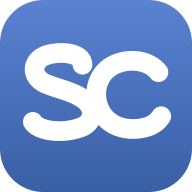
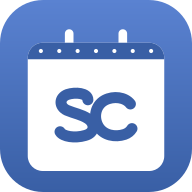
앱 아이콘 변경

diff --git a/src/components/CalendarView.js b/src/components/CalendarView.js
@@ -21,7 +21,7 @@ import {
   Animated,
   PanResponder,
   Platform,
-  Modal,
+  BackHandler,
   Pressable,
 } from "react-native";
 import Reanimated, {
@@ -43,6 +43,7 @@ import EventModal from "./EventModal";
 import Button from "./Button";
 import { SearchIcon, ReturnIcon } from "./icons";
 import { useTheme } from "../context/ThemeContext";
+import { Portal } from "../context/OverlayContext";
 import { Typography, Spacing, Radius, Shadow } from "../../constants/theme";
 
 // MainTabNavigator의 tabBarStyle: bottom 12 + height 72
@@ -264,9 +265,9 @@ export default function CalendarView({
   const [editingEvent, setEditingEvent] = useState(null);
   const [searchVisible, setSearchVisible] = useState(false);
   const [searchQuery, setSearchQuery] = useState("");
-  // 검색 dim/시트 페이드·슬라이드 아웃이 끝날 때까지 Modal을 유지하기 위한 마운트 상태.
-  // searchVisible=true → Modal mount → dim FadeIn + 시트 SlideInDown 동시에
-  // searchVisible=false → dim/시트 unmount(페이드/슬라이드 아웃) → 220ms 뒤 Modal도 unmount
+  // 검색 dim/시트 페이드·슬라이드 아웃이 끝날 때까지 오버레이 Portal을 유지하기 위한 마운트 상태.
+  // searchVisible=true → searchMounted=true → Portal 마운트 → dim FadeIn + 시트 SlideInDown 동시에
+  // searchVisible=false → dim/시트 unmount(페이드/슬라이드 아웃) → 220ms 뒤 Portal도 unmount
   const [searchMounted, setSearchMounted] = useState(false);
   useEffect(() => {
     if (searchVisible) {
@@ -487,10 +488,20 @@ export default function CalendarView({
       .sort((a, b) => a.date.localeCompare(b.date));
   }, [events, searchQuery]);
 
-  const closeSearch = () => {
+  const closeSearch = useCallback(() => {
     setSearchVisible(false);
     setSearchQuery("");
-  };
+  }, []);
+
+  // 안드로이드 하드웨어 백 버튼 → 검색 닫기. (Modal의 onRequestClose 대체)
+  useEffect(() => {
+    if (!searchVisible || Platform.OS !== "android") return undefined;
+    const sub = BackHandler.addEventListener("hardwareBackPress", () => {
+      closeSearch();
+      return true;
+    });
+    return () => sub.remove();
+  }, [searchVisible, closeSearch]);
 
   // 검색 결과 선택 → 해당 날짜 선택 + 그 달로 캘린더 이동
   const jumpToEvent = (ev) => {
@@ -803,16 +814,14 @@ export default function CalendarView({
         }
       />
 
-      <Modal
-        visible={searchMounted}
-        animationType="none"
-        transparent
-        presentationStyle="overFullScreen"
-        statusBarTranslucent
-        hardwareAccelerated
-        onRequestClose={closeSearch}
-      >
-        <View style={styles.searchOverlay}>
+      {searchMounted && (
+      // App.js OverlayHost 최상단 레이어로 텔레포트. native Modal을 쓰지 않으므로 iOS에서
+      // 슬라이드 중에도 dim이 상태바·탭바를 포함한 전 화면을 처음부터 덮는다.
+      <Portal>
+        <View
+          style={styles.searchOverlay}
+          pointerEvents={searchVisible ? "auto" : "none"}
+        >
           {/* dim은 시트와 동시에 페이드 인/아웃 → 시트가 올라오면서 점점 어두워지고, 내려가면서 점점 밝아짐 */}
           {searchVisible && (
             <Reanimated.View
@@ -990,7 +999,8 @@ export default function CalendarView({
           </Reanimated.View>
           )}
         </View>
-      </Modal>
+      </Portal>
+      )}
     </SafeAreaView>
   );
 }
@@ -1155,7 +1165,11 @@ const styles = StyleSheet.create({
     justifyContent: "center",
   },
   searchOverlay: {
-    flex: 1,
+    position: "absolute",
+    top: 0,
+    left: 0,
+    right: 0,
+    bottom: 0,
     justifyContent: "flex-end",
   },
   searchDim: {

diff --git a/src/components/EventModal.js b/src/components/EventModal.js
@@ -6,7 +6,7 @@ import React, {
   useState,
 } from "react";
 import {
-  Modal,
+  BackHandler,
   View,
   Text,
   TextInput,
@@ -33,6 +33,7 @@ import DateTimePicker from "@react-native-community/datetimepicker";
 import { MaterialIcons } from "@expo/vector-icons";
 import { GroupCalendarService } from "../services/GroupCalendarService";
 import { useTheme } from "../context/ThemeContext";
+import { Portal } from "../context/OverlayContext";
 import WheelPicker, {
   WHEEL_ITEM_HEIGHT,
   WHEEL_VISIBLE_COUNT,
@@ -178,9 +179,9 @@ const EventModal = ({
     pillBorderOff: isDark ? "#5a5e68" : "#aab0bb",
   };
 
-  // 시트와 dim의 페이드/슬라이드 아웃이 끝날 때까지 Modal을 유지하기 위한 마운트 상태.
-  // visible=true → isMounted=true → Modal mount → dim FadeIn + 시트 SlideInDown 동시에
-  // visible=false → dim/시트 unmount(페이드/슬라이드 아웃) → 220ms 뒤 Modal도 unmount
+  // 시트와 dim의 페이드/슬라이드 아웃이 끝날 때까지 오버레이를 유지하기 위한 마운트 상태.
+  // visible=true → isMounted=true → 오버레이 마운트 → dim FadeIn + 시트 SlideInDown 동시에
+  // visible=false → dim/시트 unmount(페이드/슬라이드 아웃) → 220ms 뒤 오버레이도 unmount
   const [isMounted, setIsMounted] = useState(visible);
   useEffect(() => {
     if (visible) {
@@ -190,6 +191,16 @@ const EventModal = ({
       return () => clearTimeout(t);
     }
   }, [visible, isMounted]);
+
+  // 안드로이드 하드웨어 백 버튼 → 닫기. (Modal의 onRequestClose 대체)
+  useEffect(() => {
+    if (!visible || Platform.OS !== "android") return undefined;
+    const sub = BackHandler.addEventListener("hardwareBackPress", () => {
+      onClose();
+      return true;
+    });
+    return () => sub.remove();
+  }, [visible, onClose]);
 
   // 핸들 드래그로 시트 내려서 닫기.
   // dragY: 사용자가 핸들을 아래로 끌어내린 거리(px). transform.translateY로 시트에 적용.
@@ -701,22 +712,23 @@ const EventModal = ({
     );
   };
 
+  if (!isMounted) return null;
+
   return (
-    <Modal
-      visible={isMounted}
-      animationType="none"
-      transparent={true}
-      // iOS: 모달 뷰가 처음부터 상태바 아래까지 덮도록 명시 (transparent=true의 기본값이지만
-      // 명시해두면 RN 버전·플랫폼별 기본 동작 차이를 방지)
-      presentationStyle="overFullScreen"
-      // Android: 상태바 영역까지 덮어 dim이 위까지 적용되도록
-      statusBarTranslucent
-      hardwareAccelerated
-      onRequestClose={onClose}
-    >
+    // Portal로 App.js의 OverlayHost 최상단 레이어에 텔레포트해서 그린다.
+    // → 네이티브 Modal을 안 쓰므로 iOS Modal의 "슬라이드 중에는 상태바 영역까지 풀스크린이
+    //   아님" 문제가 사라지고, 상태바/하단 탭바를 포함한 전 화면이 처음부터 dim으로 덮인다.
+    <Portal>
       <View
+        // pointerEvents: visible 동안만 입력 가로채기 (FadeOut 잔여 시간엔 통과시켜
+        // 사용자가 빠르게 다음 액션을 할 수 있게 함)
+        pointerEvents={visible ? "auto" : "none"}
         style={{
-          flex: 1,
+          position: "absolute",
+          top: 0,
+          left: 0,
+          right: 0,
+          bottom: 0,
           justifyContent: "flex-end",
         }}
       >
@@ -1137,7 +1149,7 @@ const EventModal = ({
           </Reanimated.View>
         )}
       </View>
-    </Modal>
+    </Portal>
   );
 };
 

diff --git a/src/context/OverlayContext.js b/src/context/OverlayContext.js
@@ -1,0 +1,109 @@
+// src/context/OverlayContext.js
+//
+// OverlayHost / Portal — App.js 최상단에 OverlayHost를 두고, 임의의 위치에서 Portal로
+// JSX를 그 최상단 레이어에 텔레포트해서 그린다.
+//
+// 만들어진 이유: iOS native <Modal>은 transparent=true여도 슬라이드/페이드 중에는
+// modal view가 상태바 영역까지 풀스크린으로 확장되지 않아 dim 오버레이가 상태바 영역만
+// 늦게 따라온다. Portal로 NavigationContainer 위에 absoluteFill 레이어를 깔면
+// 그 레이어는 상태바·하단 탭바까지 포함한 전체 화면을 자유롭게 덮을 수 있다.
+//
+// 구현 노트:
+// - 상태(portals 맵)는 외부 store에 두고 PortalLayer만 useSyncExternalStore로 구독한다.
+//   → Portal 사용 컴포넌트가 갱신될 때 OverlayHost/NavigationContainer가 같이 리렌더되지 않음.
+// - Portal은 children을 매 렌더마다 store에 set한다. 같은 자리 같은 컴포넌트면 React가
+//   reconcile하므로 Reanimated 상태/transform은 유지된다.
+// - Portal이 unmount되면 store에서 제거되며, Reanimated의 exiting 애니메이션은
+//   네이티브 측에서 정상 재생된다.
+
+import React, {
+  createContext,
+  useContext,
+  useEffect,
+  useId,
+  useRef,
+  useSyncExternalStore,
+} from "react";
+import { StyleSheet, View } from "react-native";
+
+const createPortalStore = () => {
+  let portals = new Map();
+  const listeners = new Set();
+  return {
+    subscribe(listener) {
+      listeners.add(listener);
+      return () => listeners.delete(listener);
+    },
+    getSnapshot() {
+      return portals;
+    },
+    set(id, node) {
+      portals = new Map(portals);
+      portals.set(id, node);
+      listeners.forEach((l) => l());
+    },
+    delete(id) {
+      if (portals.has(id)) {
+        portals = new Map(portals);
+        portals.delete(id);
+        listeners.forEach((l) => l());
+      }
+    },
+  };
+};
+
+const PortalStoreContext = createContext(null);
+
+export const OverlayHost = ({ children }) => {
+  const storeRef = useRef(null);
+  if (!storeRef.current) storeRef.current = createPortalStore();
+
+  return (
+    <PortalStoreContext.Provider value={storeRef.current}>
+      <View style={styles.root}>
+        {children}
+        <PortalLayer store={storeRef.current} />
+      </View>
+    </PortalStoreContext.Provider>
+  );
+};
+
+const PortalLayer = ({ store }) => {
+  const portals = useSyncExternalStore(store.subscribe, store.getSnapshot);
+  if (portals.size === 0) return null;
+  return (
+    <View
+      style={StyleSheet.absoluteFill}
+      pointerEvents="box-none"
+      // iOS: Modal 없이 자체 레이어로 dim/sheet를 그리는 이상, 안드로이드 elevation 영향을 받지 않도록 충분히 큰 zIndex.
+    >
+      {Array.from(portals).map(([id, node]) => (
+        <React.Fragment key={id}>{node}</React.Fragment>
+      ))}
+    </View>
+  );
+};
+
+export const Portal = ({ children }) => {
+  const store = useContext(PortalStoreContext);
+  const id = useId();
+
+  // 매 렌더마다 최신 children을 store에 반영 (clojure 갱신 포함).
+  // React 측에서 같은 컴포넌트면 reconcile되어 마운트 유지된다.
+  useEffect(() => {
+    if (store) store.set(id, children);
+  });
+
+  // 언마운트 시 store에서 제거.
+  useEffect(() => {
+    return () => {
+      if (store) store.delete(id);
+    };
+  }, [id, store]);
+
+  return null;
+};
+
+const styles = StyleSheet.create({
+  root: { flex: 1 },
+});

diff --git a/App.js b/App.js
@@ -6,6 +6,7 @@ import { createNativeStackNavigator } from "@react-navigation/native-stack";
 import { supabase } from "./src/lib/supabaseClient";
 import { UserService } from "./src/services/UserService";
 import ThemeContext, { ThemeProvider } from "./src/context/ThemeContext";
+import { OverlayHost } from "./src/context/OverlayContext";
 import { Typography } from "./constants/theme";
 
 import LoginScreen from "./src/screens/LoginScreen";
@@ -54,7 +55,7 @@ export default function App() {
     <ThemeProvider>
       <ThemeContext.Consumer>
         {(theme) => (
-          <>
+          <OverlayHost>
             <StatusBar
               barStyle={
                 theme.mode === "dark" ? "light-content" : "dark-content"
@@ -72,7 +73,7 @@ export default function App() {
                 )}
               </Stack.Navigator>
             </NavigationContainer>
-          </>
+          </OverlayHost>
         )}
       </ThemeContext.Consumer>
     </ThemeProvider>
